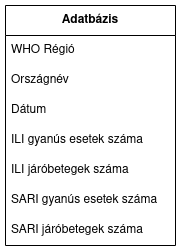
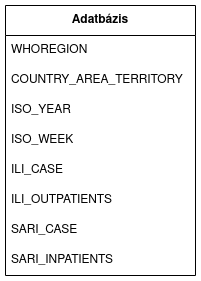
követelménylista pontosítása és ábra cseréje funkspec.md-ben és kovspec.md-ben

Changed region(s): [[0.0, 0.0, 0.9945, 1.0], [0.3867, 0.5299, 0.8011, 0.5857]]

diff --git a/docs/kovspec.md b/docs/kovspec.md
@@ -33,7 +33,7 @@ A megvalósítandó funkciók egy weboldal, ami képes adatbázisból lekérdezn
 | K11 | ILI gyanús esetek prediktálása | A programnak prediktálnia kell az ILI gyanús megbetegedések számát |
 | K12 | ILI járóbetegek prediktálása | A programnak prediktálnia kell az ILI járóbetegek számát |
 | K13 | SARI gyanús esetek prediktálása | A programnak prediktálnia kell a SARI gyanús megbetegedések számát |
-| K14 | SARI járóbetegek prediktálása | A programnak prediktálnia kell a SARI járóbetegek számát |
+| K14 | SARI fekvőbetegek prediktálása | A programnak prediktálnia kell a SARI fekvőbetegek számát |
 
 #### Funkcionális követelmények csoportosítása
 
@@ -52,7 +52,7 @@ A nem-funkcionális követelmények teljesítésével biztosítjuk a megfelelő 
 | K15 | A tanuló adatbázis tartalma | A tanuló adatbázis csakis a WHO hivatalos adatait tartalmazza |
 | K16 | A tanuló adatbázis ne tartalmazzon felesleges adatoszlopokat | A tanuló adatbázis a WHO hivatalos adatainak egy szűrt változatát tartlamazza a predikcióhoz szükségtelen adatoszlopokat elhagyva |
 | K17 | A tanuló adatbázis csakis egész népességre vonatkozó adatokat tartalmazzon | A tanuló adatbázis a WHO hivatalos adatainak egy szűrt változatát tartlamazza a korosztályokra lebontott adatsorok elhagyásával |
-| K18 | A tanuló adatbázis adatai | A tanuló adatbázis adatoszlopai a következők legyenek: WHO régió, országnév, dátum, ILI gyanús esetek, ILI járóbetegek, SARI gyanús esetek, SARI járóbetegek |
+| K18 | A tanuló adatbázis adatai | A tanuló adatbázis adatoszlopai a következők legyenek: WHO régió, országnév, dátum, ILI gyanús esetek, ILI járóbetegek, SARI gyanús esetek, SARI fekvőbetegek |
 | K19 | A predikció történjen gépi tanulással | A predikcióért felelős program használjon gépi tanulást új adatok előállítására |
 | K20 | A prediktált adatok elkészítése | A prediktált adatokat egy előre betanított modell alapján lekérésre generálja a rendszer |
 | K21 | Figyelmeztetni a felhasználót a prediktált adatok pontatlanságára | Figyelmeztetni kell a felhasználót, hogy a generált adatok gépi tanulás útján lettek generálva, ezért nagy valószínűséggel pontatlanok és nem vállalunk érte felelősséget |

diff --git a/docs/funkspec.md b/docs/funkspec.md
@@ -50,7 +50,7 @@ A prediktáló program egy python program, ami a tanuló adatbázis megfelelő r
 
 A prediktáló program egy tanuló adatbázis lekérdezéssel kap tanuló adatot, majd a predikció után a generált adatokat feltölti a prediktált adatok adatbázisába.
 
-A prediktáló program a dátum, az ILI gyanús esetek száma, az ILI járóbetegek száma, a SARI gyanús esetek száma és a SARI járóbetegek száma alapján tanul és megadott jövőbeli időpontokra ILI gyanús esetek, ILI járóbetegek, SARI gyanús esetek és SARI járóbetegek számát generál.
+A prediktáló program a dátum, az ILI gyanús esetek száma, az ILI járóbetegek száma, a SARI gyanús esetek száma és a SARI fekvőbetegek száma alapján tanul és megadott jövőbeli időpontokra ILI gyanús esetek, ILI járóbetegek, SARI gyanús esetek és SARI fekvőbetegek számát generál.
 
 ### Nem-funkcionális követelmények
 
@@ -71,13 +71,14 @@ A tanuló adatbázis csakis a predikció szempontjából lényeges adatokat tart
 
 ##### Adatoszlopok
 
-- WHO régió - WHO régió neve
-- Országnév - Az adott ország neve
-- Dátum - A mérés időpontja
-- ILI gyanús esetek száma - Influenzagyanús betegek száma
-- ILI járóbetegek száma - Influenzás járóbetegek száma
-- SARI gyanús esetek száma - Súlyos léguti megbetegedésgyanús betegek száma
-- SARI járóbetegek száma - Súlyos léguti megbetegedéses járóbetegek száma
+- WHOREGION - WHO régió neve
+- COUNTRY_AREA_TERRITORY - Az adott ország neve
+- ISO_YEAR - A mérés éve
+- ISO_WEEK - Az év hete, amikor a mérés történt
+- ILI_CASE - Influenzagyanús betegek száma
+- ILI_OUTPATIENTS - Influenzás járóbetegek száma
+- SARI_CASE - Súlyos léguti megbetegedésgyanús betegek száma
+- SARI_INPATIENTS - Súlyos léguti megbetegedéses fekvőbetegek száma
 
 #### Predikció nem-funkcionális követelményei
 
